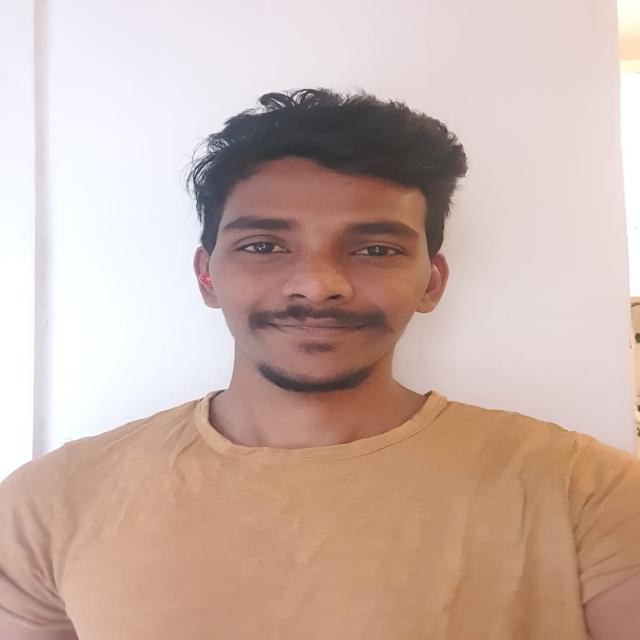
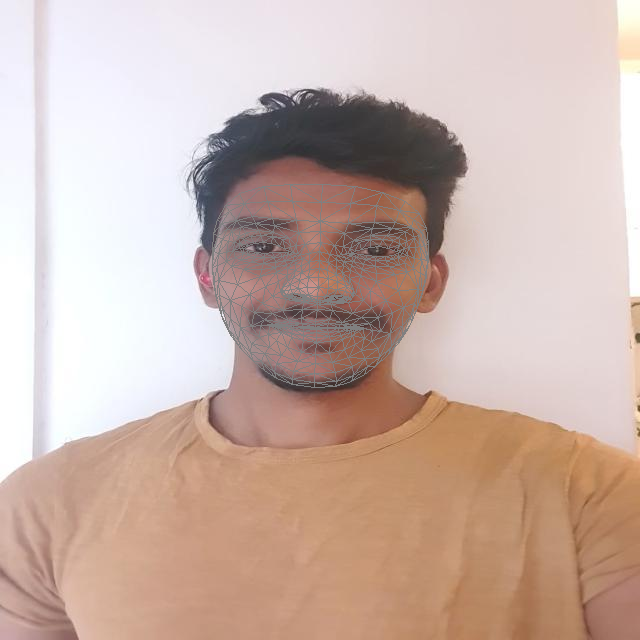
Solution

Changed region(s): [[0.3125, 0.2812, 0.6875, 0.625]]

diff --git a/Model/yolov2.py b/Model/yolov2.py
@@ -1,0 +1,172 @@
+#Import Dependencies
+import os
+import re
+import cv2
+import numpy as np
+import pandas as pd
+import seaborn as sns
+import tensorflow as tf
+from itertools import cycle
+import matplotlib.pyplot as plt 
+from tensorflow.keras import layers, Model
+from tensorflow.keras.models import Model
+from tensorflow.keras.optimizers import Adam
+from tensorflow.keras.regularizers import l2
+from sklearn.model_selection import train_test_split
+from keras.models import Sequential,load_model,Model
+from tensorflow.keras.callbacks import ModelCheckpoint
+from sklearn.metrics import roc_curve,auc, confusion_matrix, ConfusionMatrixDisplay
+from keras.layers import Conv2D,MaxPool2D,Dense,Dropout,BatchNormalization,Flatten,Input,Add,Reshape
+
+#Define dataset path
+dataset_folder = 'New_Data/'
+sub_folders = os.listdir(dataset_folder)
+
+#Declare folder names as labels and images within
+i = 0
+last = []
+images = []
+labels = []
+tmp = sub_folders
+
+#Read and set index 0:Happy and 1:Sad folders in dataset folder
+for sub_folder in sub_folders:
+  sub_folder_idx = tmp.index(sub_folder)
+  label = sub_folder_idx
+  
+  path = dataset_folder+'/'+sub_folder
+  sub_folder_images = os.listdir(path)
+  
+  #Read images in sub folder, one by one
+  for image in sub_folder_images:
+    image_path = path+'/'+image
+    #print(image_path+"\t"+str(label))
+    image = cv2.imread(image_path, cv2.IMREAD_GRAYSCALE)
+    image = cv2.resize(image, (224, 224))
+    images.append(image)
+    labels.append(label)
+    i+=1
+  last.append(i)
+  
+#Define x and y
+images_x = np.array(images)
+labels_y = np.array(labels)
+
+#Encoding labels
+labels_y_encoded = tf.keras.utils.to_categorical(labels_y, num_classes = 2)
+
+#Split into 75 train and 25 test
+X_train, X_test, Y_train, Y_test = train_test_split(images_x, labels_y_encoded, test_size = 0.25, random_state = 10)
+
+#YOLO Model Architecture
+input_layer = Input(shape = (224, 224, 1))
+    
+#Convolution Layers
+x = layers.Conv2D(32, (3, 3), padding = 'same', activation = "relu", kernel_regularizer = l2(0.0001))(input_layer)
+x = layers.MaxPooling2D(pool_size = (2, 2))(x)
+
+x = layers.Conv2D(64, (3, 3), padding = 'same', activation = "relu", kernel_regularizer = l2(0.0001))(x)
+x = layers.MaxPooling2D(pool_size = (2, 2))(x)
+
+x = layers.Conv2D(128, (3, 3), padding = 'same', activation = "relu", kernel_regularizer = l2(0.0001))(x)
+x = layers.MaxPooling2D(pool_size = (2, 2))(x)
+
+x = layers.Conv2D(256, (3, 3), padding = 'same', activation = "relu", kernel_regularizer = l2(0.0001))(x)
+x = layers.MaxPooling2D(pool_size = (2, 2))(x)
+
+x = layers.Flatten()(x)
+x = layers.Dense(512, activation = "relu")(x)
+x = layers.Dropout(0.5)(x)
+
+#Detection Layer
+output = Dense(2, activation = "softmax")(x)
+
+#Compile YOLO Model
+yolo_model = Model(inputs = input_layer, outputs = output)
+yolo_model.compile(optimizer = Adam(learning_rate = 0.0001), loss = "categorical_crossentropy", metrics = ['accuracy'])
+#yolo_model.summary()
+
+#Configure Checkpoint Model
+# fle_s = 'Model/Output/Emotion_Model.keras'
+# checkpointer = ModelCheckpoint(fle_s, monitor = 'loss', verbose = 1, save_best_only = True, save_weights_only = False, mode = 'auto', save_freq = 'epoch')
+# callback_list = [checkpointer]
+
+#save = yolo_model.fit(X_train, Y_train, batch_size = 32, validation_data = (X_test, Y_test), epochs = 100, callbacks = [callback_list])
+
+# #Checking train and test loss and accuracy values from above neural network
+# train_loss = save.history['loss']
+# test_loss = save.history['val_loss']
+# train_accuracy = save.history['accuracy']
+# test_accuracy = save.history['val_accuracy']
+
+# #Plotting line chart to visualize loss and accuracy values by epochs
+# fig, ax = plt.subplots(ncols = 2, figsize = (15, 7))
+# ax = ax.ravel()
+# ax[0].plot(train_loss, label = 'Train Loss', color = 'royalblue', marker = 'o', markersize = 5)
+# ax[0].plot(test_loss, label = 'Test Loss', color = 'orangered', marker = 'o', markersize = 5)
+# ax[0].set_xlabel('Epochs', fontsize = 14)
+# ax[0].set_ylabel('Categorical Crossentropy', fontsize = 14)
+# ax[0].legend(fontsize = 14)
+# ax[0].tick_params(axis = 'both', labelsize = 12)
+
+# ax[1].plot(train_accuracy, label = 'Train Accuracy', color = 'royalblue', marker = 'o', markersize = 5)
+# ax[1].plot(test_accuracy, label = 'Test Accuracy', color = 'orangered', marker = 'o', markersize = 5)
+# ax[1].set_xlabel('Epochs', fontsize = 14)
+# ax[1].set_ylabel('Accuracy', fontsize = 14)
+# ax[1].legend(fontsize = 14)
+# ax[1].tick_params(axis = 'both', labelsize = 12)
+# fig.suptitle(x = 0.5, y = 0.92, t = "Lineplots Showing Loss and Accuracy of Yolo Model by Epochs", fontsize = 16)
+# plt.show()
+
+#Plotting confusion matix and roc curve of model
+dir = "Model/Output/Emotion_Model.keras"
+model = load_model(dir)
+best_model = model
+
+Y_pred = best_model.predict(X_test)
+Y_test_labels = np.argmax(Y_test, axis = 1)
+Y_pred_labels = np.argmax(Y_pred, axis = 1)
+
+cm = confusion_matrix(np.argmax(Y_test, axis = 1), np.argmax(Y_pred, axis = 1))
+disp = ConfusionMatrixDisplay(confusion_matrix = cm, display_labels = ["Happy", "Sad"])
+disp.plot()
+
+plt.title('My Yolo Emotion Classifer')
+plt.ylabel('Actual class')
+plt.xlabel('Predicted class')
+
+plt.gca().xaxis.set_label_position('top')
+plt.gca().xaxis.tick_top()
+
+plt.show()
+
+#ROC Curve
+new_label = ['Happy', 'Sad']
+final_label = new_label
+new_class = 2
+
+#Ravel flatten array into one vector
+y_pred_ravel = Y_pred.ravel()
+lw = 2
+
+fpr = dict()
+tpr = dict()
+roc_auc = dict()
+
+for i in range(new_class):
+    fpr[i], tpr[i], _ = roc_curve(Y_test[:, i], Y_pred[:, i])
+    roc_auc[i] = auc(fpr[i], tpr[i])
+    
+colors = cycle(['red', 'black'])
+for i, color in zip(range(new_class), colors):
+    plt.plot(fpr[i], tpr[i], color = color, lw = lw,
+             label = 'ROC curve of class {0}'''.format(final_label[i]))
+    
+plt.plot([0, 1], [0, 1], 'k--', lw = lw)
+plt.xlim([0, 1.0])
+plt.ylim([0.0, 1.05])
+plt.xlabel('False Positive Rate')
+plt.ylabel('True Positive Rate')
+plt.title('Receiver Operating Characteristic')
+plt.legend(loc = "lower right")
+plt.show()

diff --git a/Model/testing live video.py b/Model/testing live video.py
@@ -1,0 +1,80 @@
+#Import Dependencies
+import cv2
+import numpy as np
+import mediapipe as mp
+from tensorflow import keras
+from keras.models import load_model
+
+model = load_model("Model/Output/Emotion_Model.keras")
+
+emotion_classes = {0:'Happy', 1:'Sad'}
+
+#Declare Mediapipe Face Mesh
+draw_me = mp.solutions.drawing_utils
+mesh_face_me = mp.solutions.face_mesh
+draw_styles_me = mp.solutions.drawing_styles
+
+#Load Face Cascade Classifier
+face_cascade = cv2.CascadeClassifier(cv2.data.haarcascades + 'haarcascade_frontalface_default.xml')
+
+#Start Capturing Video
+cap = cv2.VideoCapture(0)
+
+with mesh_face_me.FaceMesh(
+    static_image_mode = True,
+    max_num_faces = 1,
+    refine_landmarks = True,
+    min_detection_confidence = 0.5) as mesh_face:
+    
+    while True:
+        #Capture Frame-By-Frame
+        ret, frame = cap.read()
+
+        #Convert Frame To Grayscale
+        gray_frame = cv2.cvtColor(frame, cv2.COLOR_BGR2GRAY)
+
+        #Detect Faces In Frame
+        faces = face_cascade.detectMultiScale(gray_frame, 1.3, 5)
+
+        for (x, y, w, h) in faces:
+            #Extract Face ROI (Region of Interest)
+            face_roi = gray_frame[y:y + h, x:x + w]
+            #Resize Image To Match Model's Expected Sizing
+            img = cv2.resize(face_roi ,(224, 224))     
+            img = img.reshape(-1, 224, 224, 1) 
+            
+            #Perform Emotion Analysis On Face ROI
+            #Determine Emotion
+            predicted_emotion = model.predict(img)
+            index = int(np.argmax(predicted_emotion))
+
+            #Draw Rectangle Around Face & Label With Predicted Emotion
+            cv2.rectangle(frame, (x, y), (x + w, y + h), (255, 0, 0), 2)
+            cv2.putText(frame, emotion_classes[index], (x, y - 10), cv2.FONT_HERSHEY_SIMPLEX, 0.9, (0, 0, 255), 2)
+            
+            #Change BGR frame to RGB for Mediapipe
+            rgb_frame = cv2.cvtColor(frame, cv2.COLOR_BGR2RGB)
+            
+            outcomes = mesh_face.process(rgb_frame)
+            
+            if outcomes.multi_face_landmarks:
+                for face_landmarks in outcomes.multi_face_landmarks:
+                    #Drawing Face Landmarks
+                    draw_me.draw_landmarks(
+                        image = frame,
+                        landmark_list = face_landmarks,
+                        connections = mesh_face_me.FACEMESH_TESSELATION,
+                        landmark_drawing_spec = None,
+                        connection_drawing_spec = draw_styles_me.get_default_face_mesh_tesselation_style())
+                    
+        #Display Resulting Frame
+        cv2.imshow('Real-Time Emotion And Face Mesh Detection', frame)
+
+        #Press 'q' To Exit
+        key = cv2.waitKey(1)
+        if key == ord('q'):
+            break
+
+#Release Capture & Close All Windows
+cap.release()
+cv2.destroyAllWindows()

diff --git a/Model/facemesh.py b/Model/facemesh.py
@@ -1,0 +1,64 @@
+#Import Dependencies
+import cv2
+import mediapipe as mp
+from PIL import Image
+import matplotlib.pyplot as plt
+
+#Declare Mediapipe Face Mesh
+draw_me = mp.solutions.drawing_utils
+mesh_face_me = mp.solutions.face_mesh
+draw_styles_me = mp.solutions.drawing_styles
+
+spec_draw = draw_me.DrawingSpec(thickness=1, circle_radius=1)
+
+#Creating Face Mesh
+with mesh_face_me.FaceMesh(
+    static_image_mode = True,
+    max_num_faces = 1,
+    refine_landmarks = True,
+    min_detection_confidence = 0.5) as mesh_face:
+    
+    picture = cv2.imread('Model/Photos/6happy.png')
+    if picture is not None:
+        
+        outcomes = mesh_face.process(picture)
+
+        if outcomes.multi_face_landmarks:
+            
+            #Taking Copy of Picture
+            picture_annotated = picture.copy()
+    
+            #Drawing Face Landmarks
+            draw_me.draw_landmarks(
+                image = picture_annotated,
+                landmark_list = outcomes.multi_face_landmarks[0],
+                connections=mesh_face_me.FACEMESH_TESSELATION,
+                landmark_drawing_spec = None,
+                connection_drawing_spec = draw_styles_me.get_default_face_mesh_tesselation_style())
+
+            #Saving Picture
+            cv2.imwrite('Model/Photos/6happy.png', picture_annotated)
+
+#Reopening Picture
+pic = Image.open('Model/Photos/6happy.png')
+pic.show()
+
+#Mesh Face
+mesh_face_me = mp.solutions.face_mesh
+mesh_face = mesh_face_me.FaceMesh()
+
+#Face Landmarks
+outcome = mesh_face.process(picture)
+
+if outcome.multi_face_landmarks:
+    h, w, _ = picture.shape
+    
+    for facial_landmarks in outcome.multi_face_landmarks:
+        for i in range(0, 468):
+            point1 = facial_landmarks.landmark[i]
+            x = int(point1.x * w)
+            y = int(point1.y * h)
+            cv2.circle(picture, (x, y), 5, (100, 100, 0), -1)
+    
+    plt.imshow(cv2.cvtColor(picture, cv2.COLOR_BGR2RGB))
+    plt.show()

diff --git a/Model/testing images.py b/Model/testing images.py
@@ -1,0 +1,52 @@
+#Import Dependencies
+import cv2
+import numpy as np
+from tensorflow import keras
+import matplotlib.pyplot as plt
+from IPython.display import Image
+from keras.models import load_model
+from keras.preprocessing import image
+
+model = load_model("Model/Output/Emotion_Model.keras")
+
+#Creating Two Class Dictionary
+emotion_classes = {0:'Happy', 1:'Sad'}
+
+#Read Downloaded Test Image In OpenCV
+test_img = cv2.imread('Model/Photos/8happy.png')
+#test_img = cv2.imread('Model/Photos/1sad.png')
+
+#Convert Image To Gray Scale OpenCV
+gray_img = cv2.cvtColor(test_img, cv2.COLOR_BGR2GRAY)
+
+#Define Haar Cascade Classifier For Face Detection
+face_classifier = cv2.CascadeClassifier(cv2.data.haarcascades + 'haarcascade_frontalface_default.xml')
+  
+#Detect face Using Haar Cascade Classifier
+faces_coordinates = face_classifier.detectMultiScale(gray_img, 1.3, 5)
+ 
+i = 0
+#Draw Rectangle Around Faces
+for (x, y, w, h) in faces_coordinates:
+    i = i + 1
+    #Draw Rectangle Around Face
+    cv2.rectangle(test_img, (x, y), (x + w, y + h), (255, 0, 0), 2)
+         
+    #Crop Face From Image
+    cropped_face = gray_img[y:y+h, x:x+w]
+    final_image1 = cv2.resize(cropped_face, (224, 224), interpolation = cv2.INTER_AREA)
+    final_image_array = np.array(final_image1)
+    
+    #Need 4th Dimension
+    input_test = np.expand_dims(final_image_array, axis = 0) 
+    output_test = emotion_classes[np.argmax(model.predict(input_test))]
+    output_str = str(i) + ": " + output_test
+    print(output_str)
+    
+    #Define OpenCV Font Style
+    font = cv2.FONT_HERSHEY_SIMPLEX
+    col = (0, 0, 255)
+    cv2.putText(test_img, output_test, (x, y), font, 2, col, 2)
+     
+plt.imshow(cv2.cvtColor(test_img,cv2.COLOR_BGR2RGB))
+plt.show()
